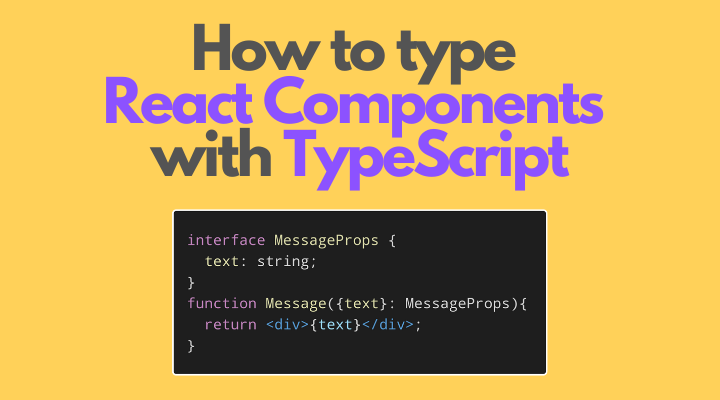
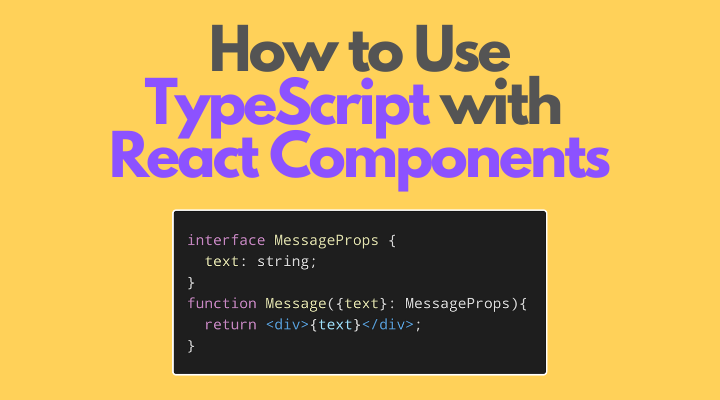
Post TypeScript with React Components

Changed region(s): [[0.1222, 0.06, 0.8556, 0.48]]

diff --git a/content/posts/151-react-comp-typescript/index.md b/content/posts/151-react-comp-typescript/index.md
@@ -1,5 +1,5 @@
 ---
-title: "How to type React Components with TypeScript"
+title: "How to Use TypeScript with React Components"
 description: "How to use TypeScript to type React components: validate props, mark props as optional."
 published: "2021-09-29T15:00Z"
 modified: "2021-10-01T16:40Z"
